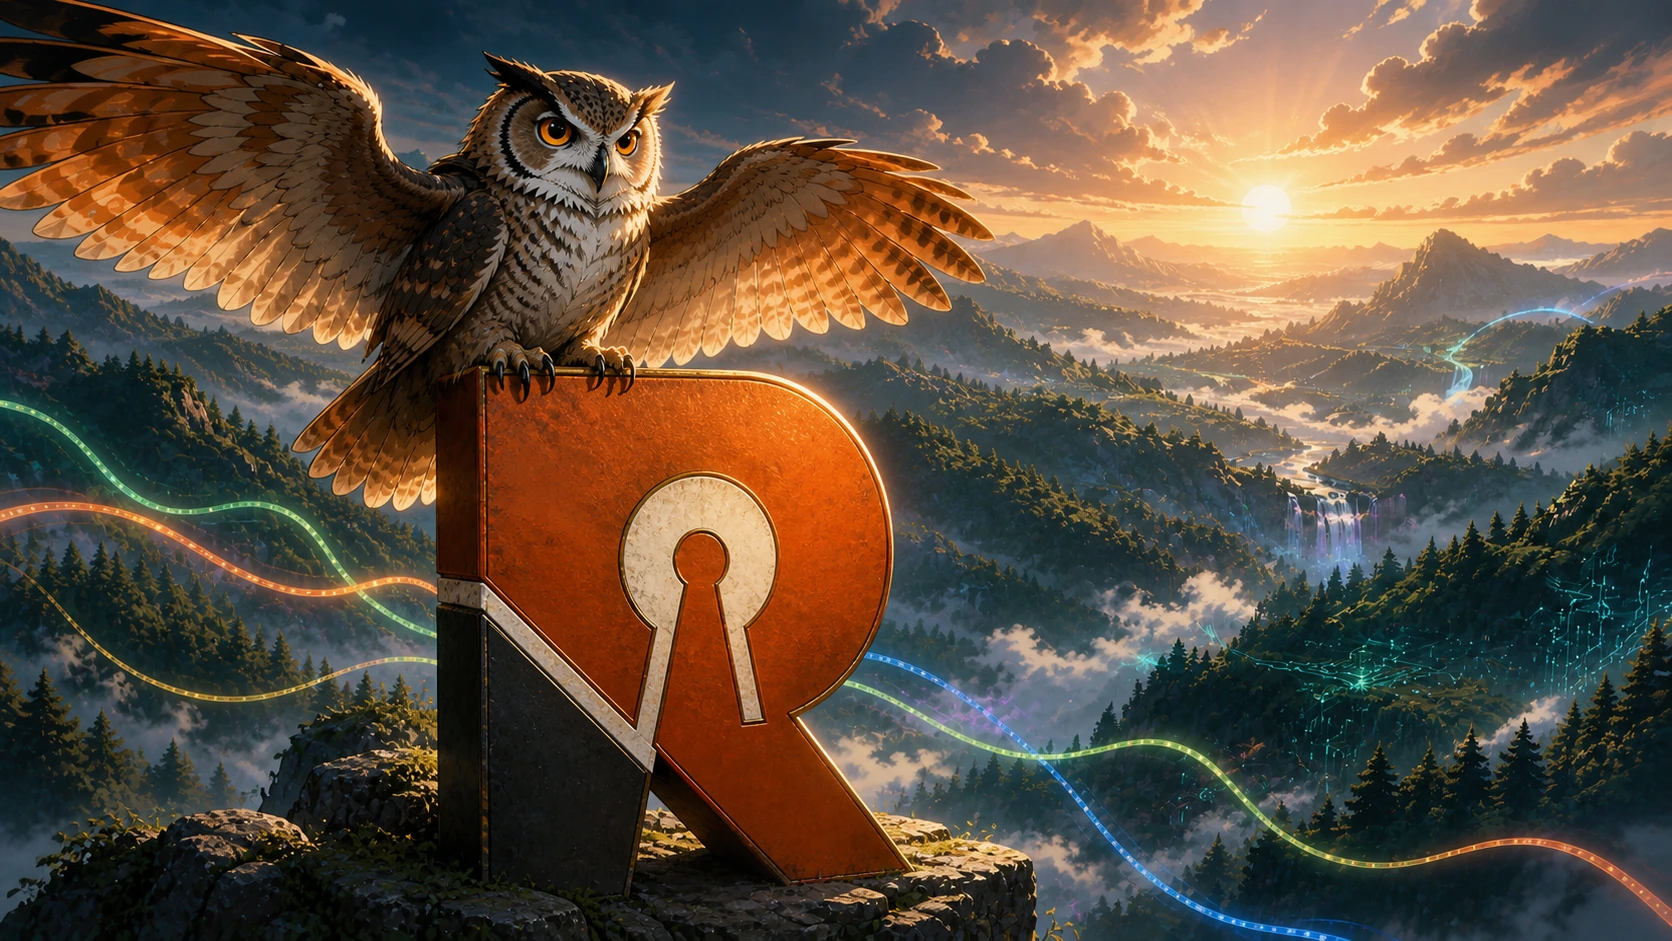
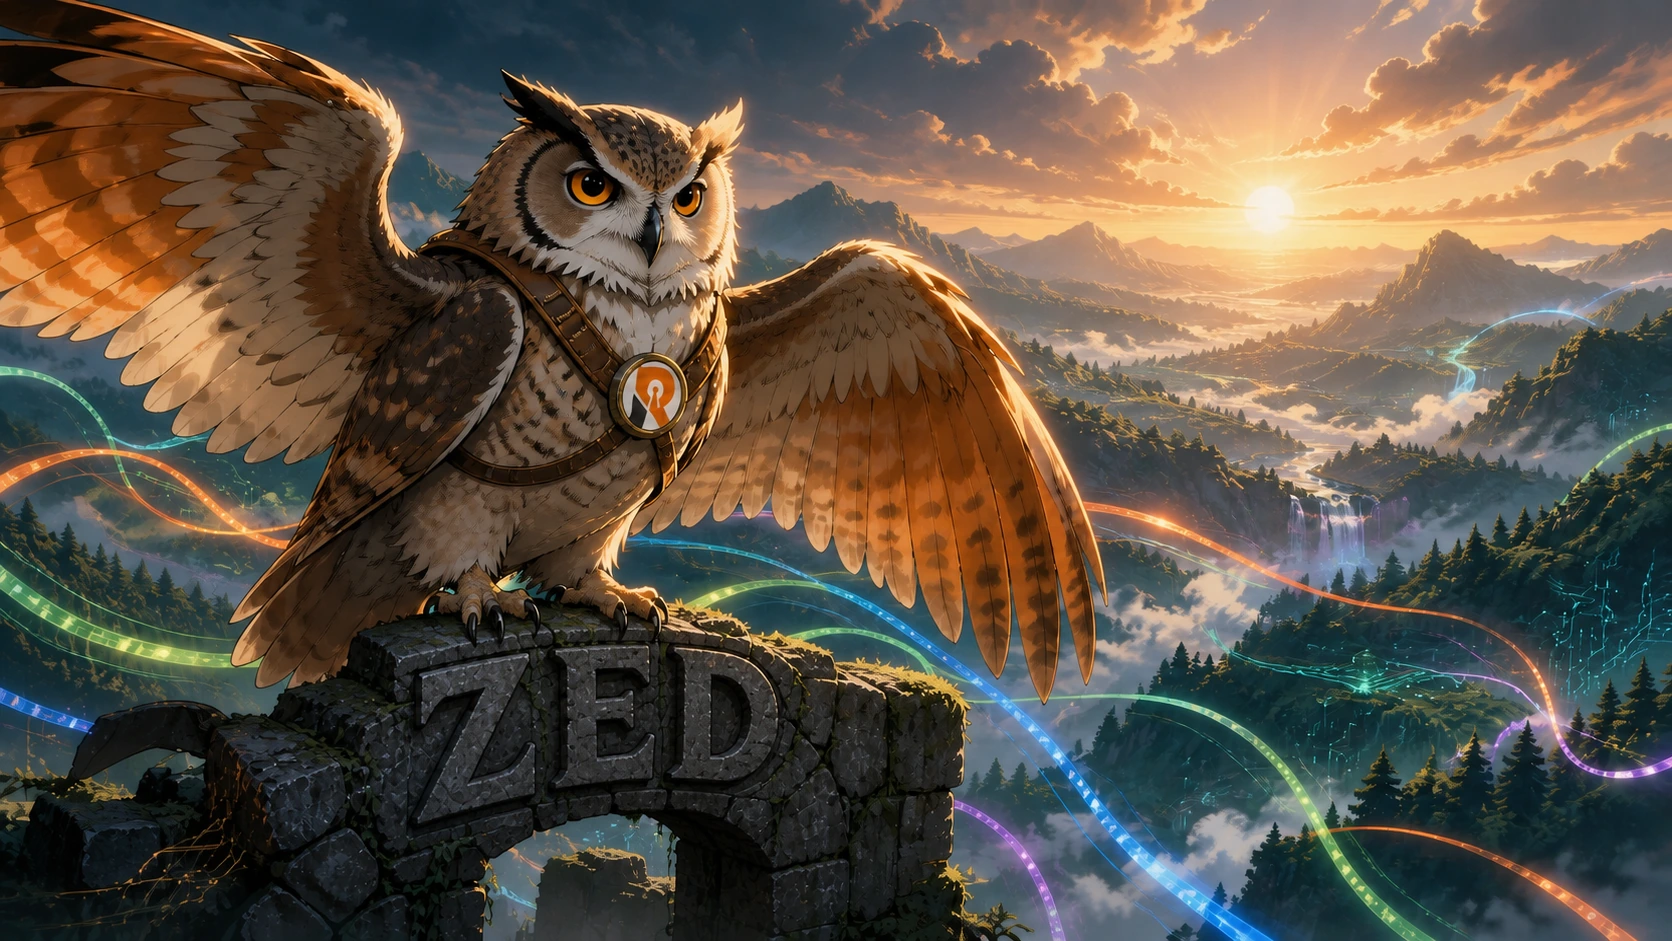
docs: refine RustOwl hero scene

diff --git a/README.md b/README.md
@@ -1,5 +1,5 @@
 <p align="center">
-  <img src="assets/rustowl-hero.webp" alt="A heroic owl perched on the RustyAuth R above a mountain valley crossed by colourful RustOwl lifetime paths" width="100%">
+  <img src="assets/rustowl-hero.webp" alt="A heroic owl wearing the RustyAuth mark and perched on a stone ZED arch above a mountain valley crossed by colourful RustOwl lifetime paths" width="100%">
 </p>
 
 # RustOwl for Zed
